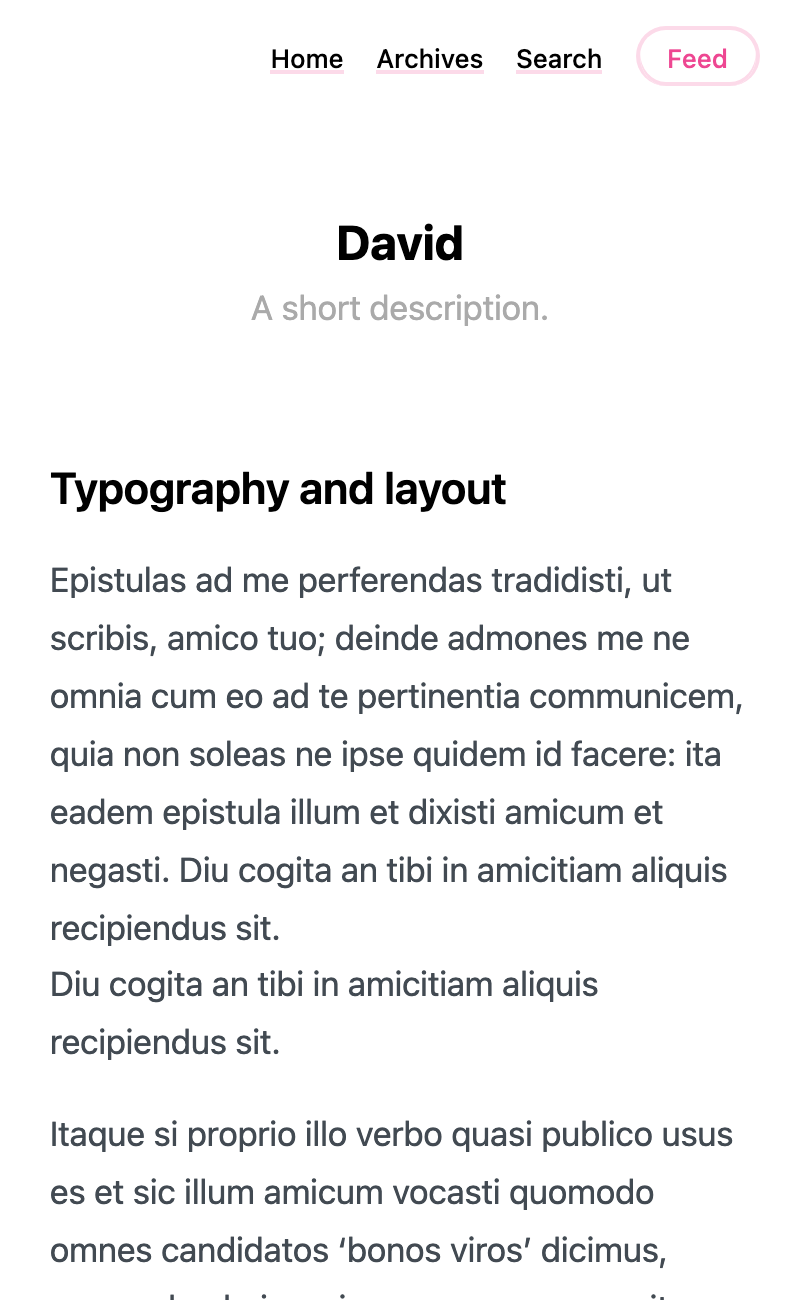
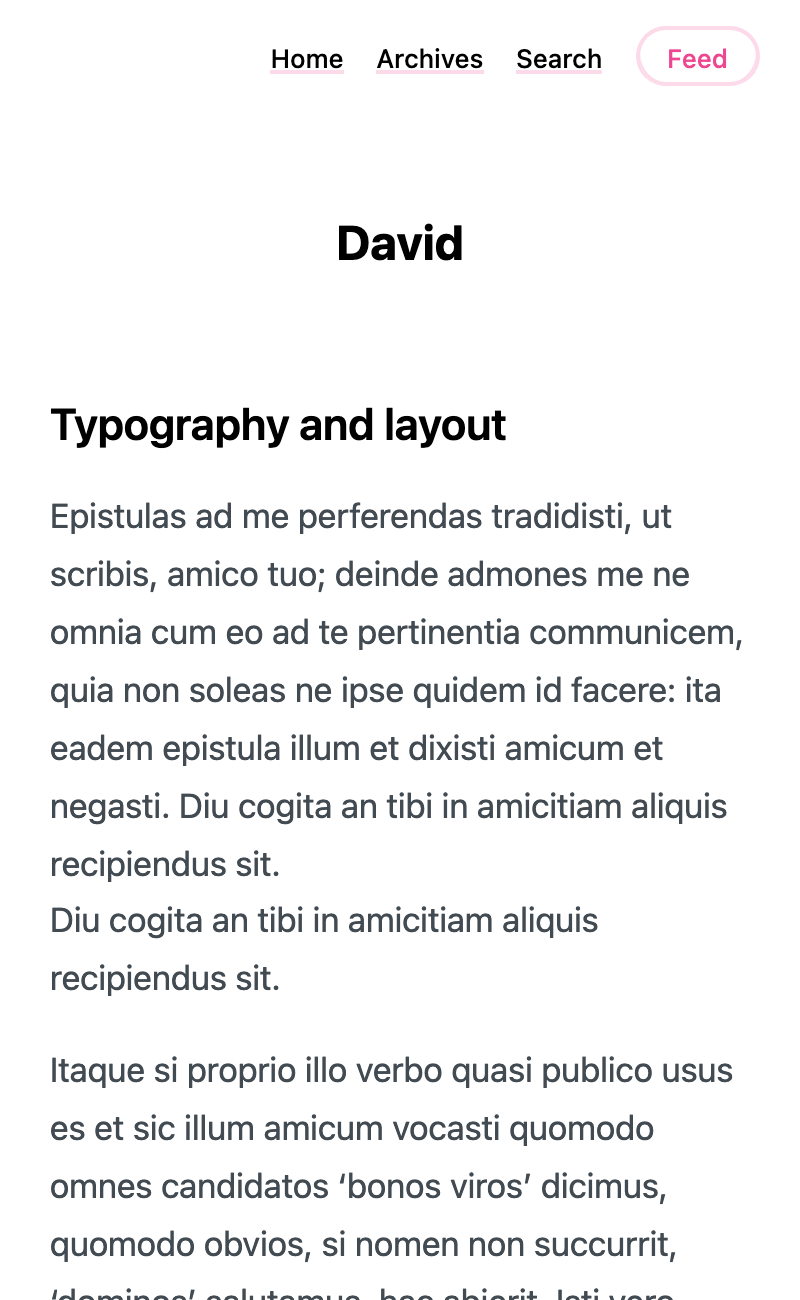
Fix Profile template homepage preview

diff --git a/app/templates/source/profile/entry.html b/app/templates/source/profile/entry.html
@@ -74,14 +74,14 @@
       <header>
         <ul class="h-card p-author author hidden">
           <li>
-            <a class="u-url" href="/about" rel="me"><span class="p-author">{{author}}</span></a>
+            <a class="u-url" href="/" rel="me"><span class="p-name">{{#author}}{{author}}{{/author}}{{^author}}{{title}}{{/author}}</span></a>
           </li>
           {{#avatar}}<li>
             <img class="u-photo" src="{{{avatar}}}" alt="">
       </li>{{/avatar}}
-          <li>
+          {{#email}}<li>
             <a href="mailto:{{email}}" class="u-email" rel="me">{{email}}</a>
-          </li>
+          </li>{{/email}}
         </ul>
         {{{titleTag}}}
         <h2 class="headline">
@@ -99,8 +99,8 @@
       <a href="/">
     {{#avatar}}<img class="avatar" src="{{{avatar}}}">{{/avatar}}
     <div>
-      <span class="dark">{{author}}</span>
-      <span>{{description}}</span>
+      <span class="dark">{{#author}}{{author}}{{/author}}{{^author}}{{title}}{{/author}}</span>
+      {{#description}}<span>{{description}}</span>{{/description}}
     </div>
   </a>
     </section>

diff --git a/app/templates/source/profile/style.css b/app/templates/source/profile/style.css
@@ -400,12 +400,14 @@ html,body,div,span,applet,object,iframe,h1,h2,h3,h4,h5,h6,p,blockquote,pre,a,abb
 /* Base */
 html, body {
   height: 100%;
+  background: #fff;
 }
 
 body {
   font-size: 17px;
   font-family: system-ui, -apple-system, BlinkMacSystemFont, 'Segoe UI', Roboto, Oxygen, Ubuntu, Cantarell, 'Open Sans', 'Helvetica Neue', sans-serif;
   color: #424a52;
+  background: #fff;
   text-rendering: optimizeLegibility;
 }
 

diff --git a/app/templates/source/profile/entries.html b/app/templates/source/profile/entries.html
@@ -37,7 +37,9 @@
 </a>
 {{/avatar}}
 <h1 class="p-name"><a class="u-url" href="/" rel="me">{{title}}</a></h1>
+{{#description}}
 <h4 class="p-role">{{description}}</h4>
+{{/description}}
 </header>
 </section>
 </div>

diff --git a/app/templates/source/profile/README.md b/app/templates/source/profile/README.md
@@ -1,15 +1,5 @@
-# _Marfa_ for Jekyll
+# Profile
 
-#### Demo: [mmarfil.com/micro](http://mmarfil.com/micro)
+A personal site: name, optional photo, and a short bio on the homepage, then posts.
 
-## Screenshot
-
-![screenshot](screenshot/home.png)
-
-This Jekyll theme started as a port of [Cactus](https://github.com/eudicots/Cactus) to my own needs, but I ended up performing a lot more modifications than expected. Some people reached me out and asked if I could share it, so here we are.
-
-#### Disclaimer: I'm only a designer, so please don't expect the code to be pretty.
-
-## Usage
-To start your project, [fork this respository](https://github.com/mmarfil/marfa/fork), put in your content, and go!
-
+Set **Author**, **Description**, **Email**, and **Micro.blog username** in the template settings if you want them shown. Upload a photo on the dashboard for the avatar.
